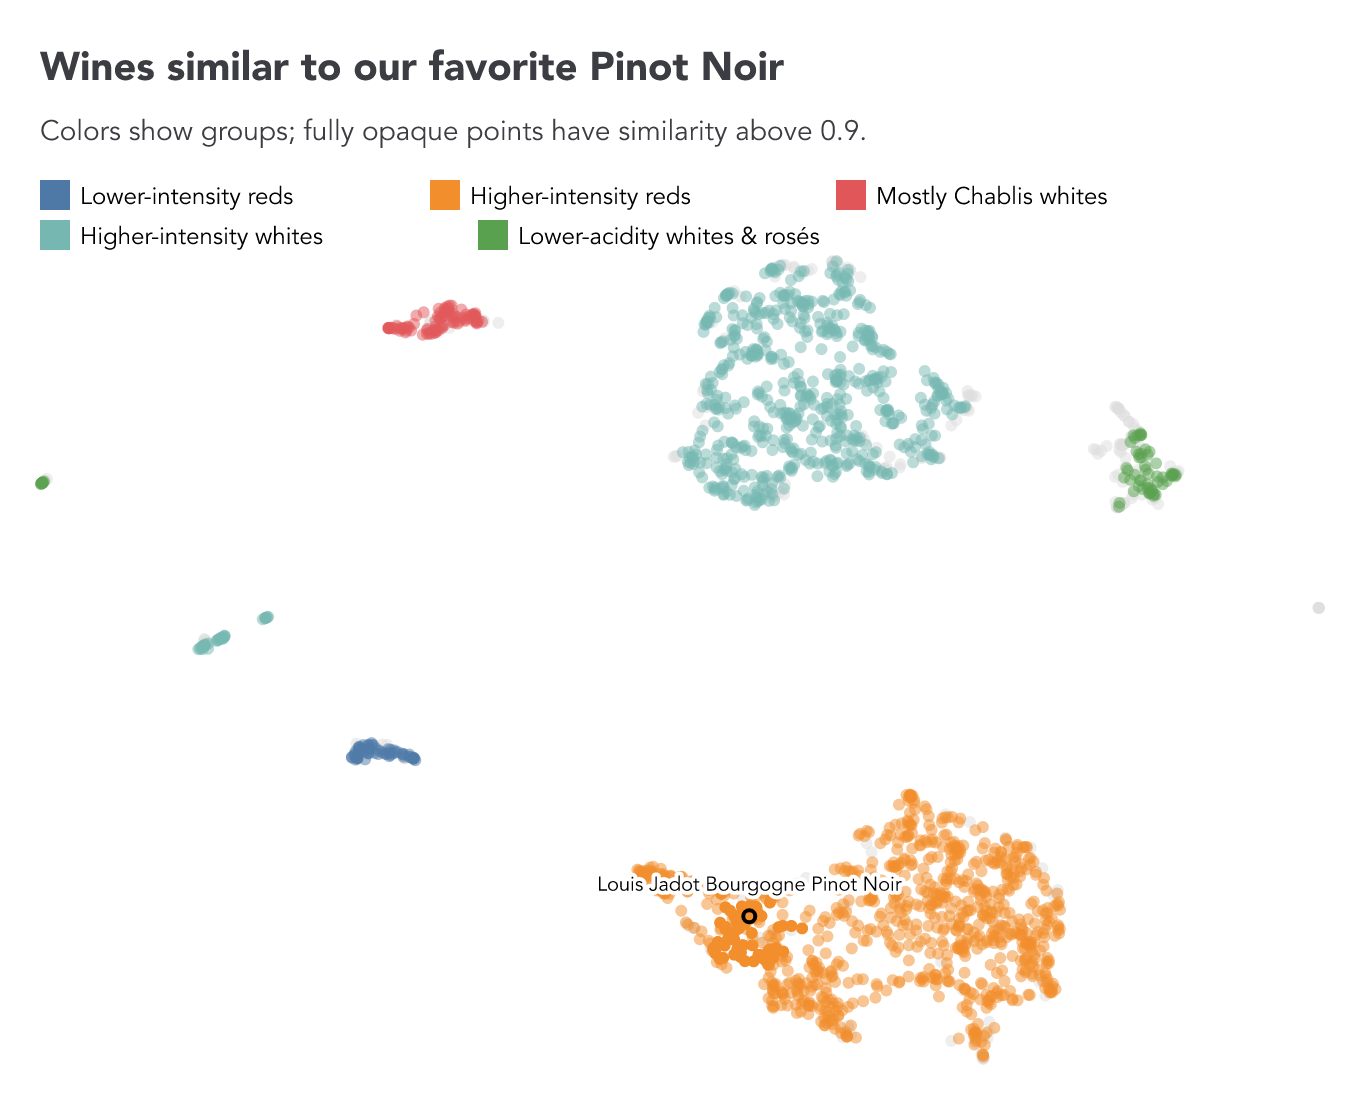
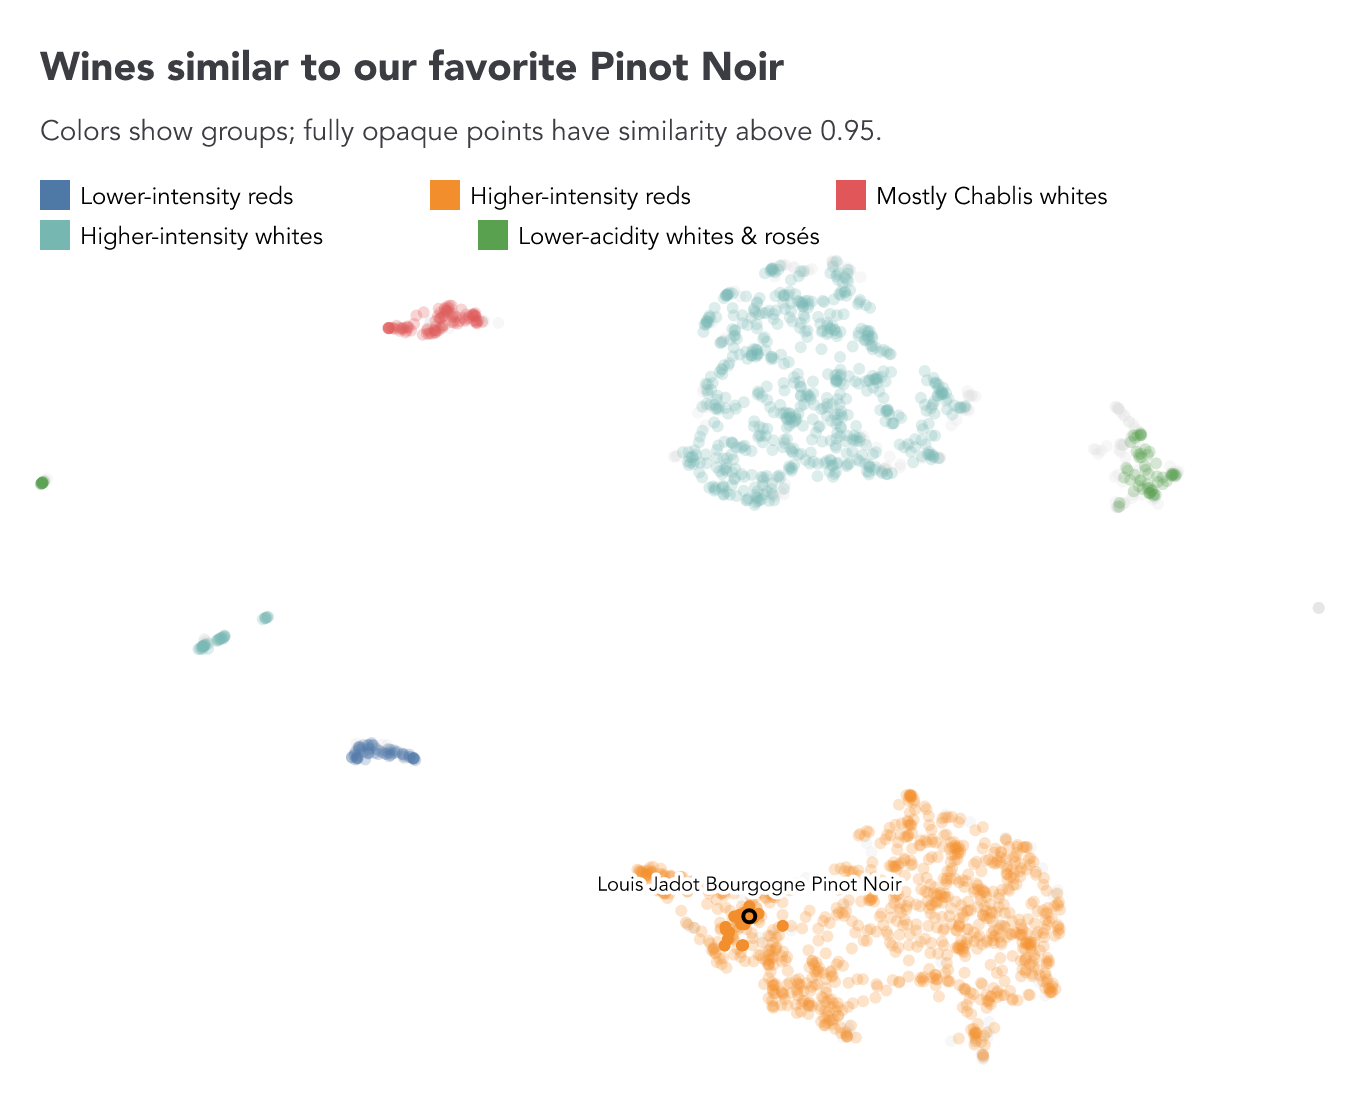
Increase contrast for the closest wine matches

diff --git a/README.md b/README.md
@@ -966,7 +966,7 @@ await wines
       plot({
         title: "Wines similar to our favorite Pinot Noir",
         subtitle:
-          "Colors show groups; fully opaque points have similarity above 0.9.",
+          "Colors show groups; fully opaque points have similarity above 0.95.",
         x: { axis: null },
         y: { axis: null },
         color: {
@@ -987,7 +987,7 @@ await wines
             x: "umapX",
             y: "umapY",
             fill: "cluster",
-            fillOpacity: (d) => d.similarity > 0.9 ? 1 : 0.5,
+            fillOpacity: (d) => d.similarity > 0.95 ? 1 : 0.25,
             r: 3,
             stroke: "black",
             strokeWidth: (d) => d.fullName === reference.fullName ? 2 : 0,
@@ -1016,11 +1016,11 @@ await wines
 await sdb.close();
 ```
 
-In this chart, wines with a similarity score above 0.9 have opacity 1; all other
-wines have opacity 0.5. Gray points are unclustered. Filling missing tannin
-values with zero contributes to the separation between wine types.
+In this chart, wines with a similarity score above 0.95 have opacity 1; all
+other wines have opacity 0.25. Gray points are unclustered. Filling missing
+tannin values with zero contributes to the separation between wine types.
 
-![UMAP scatterplot of wines colored by HDBSCAN group, with opacity highlighting similarity scores above 0.9, with Louis Jadot Bourgogne Pinot Noir highlighted.](./assets/wines-umap.png)
+![UMAP scatterplot of wines colored by HDBSCAN group, with opacity highlighting similarity scores above 0.95, with Louis Jadot Bourgogne Pinot Noir highlighted.](./assets/wines-umap.png)
 
 #### Network analysis
 
